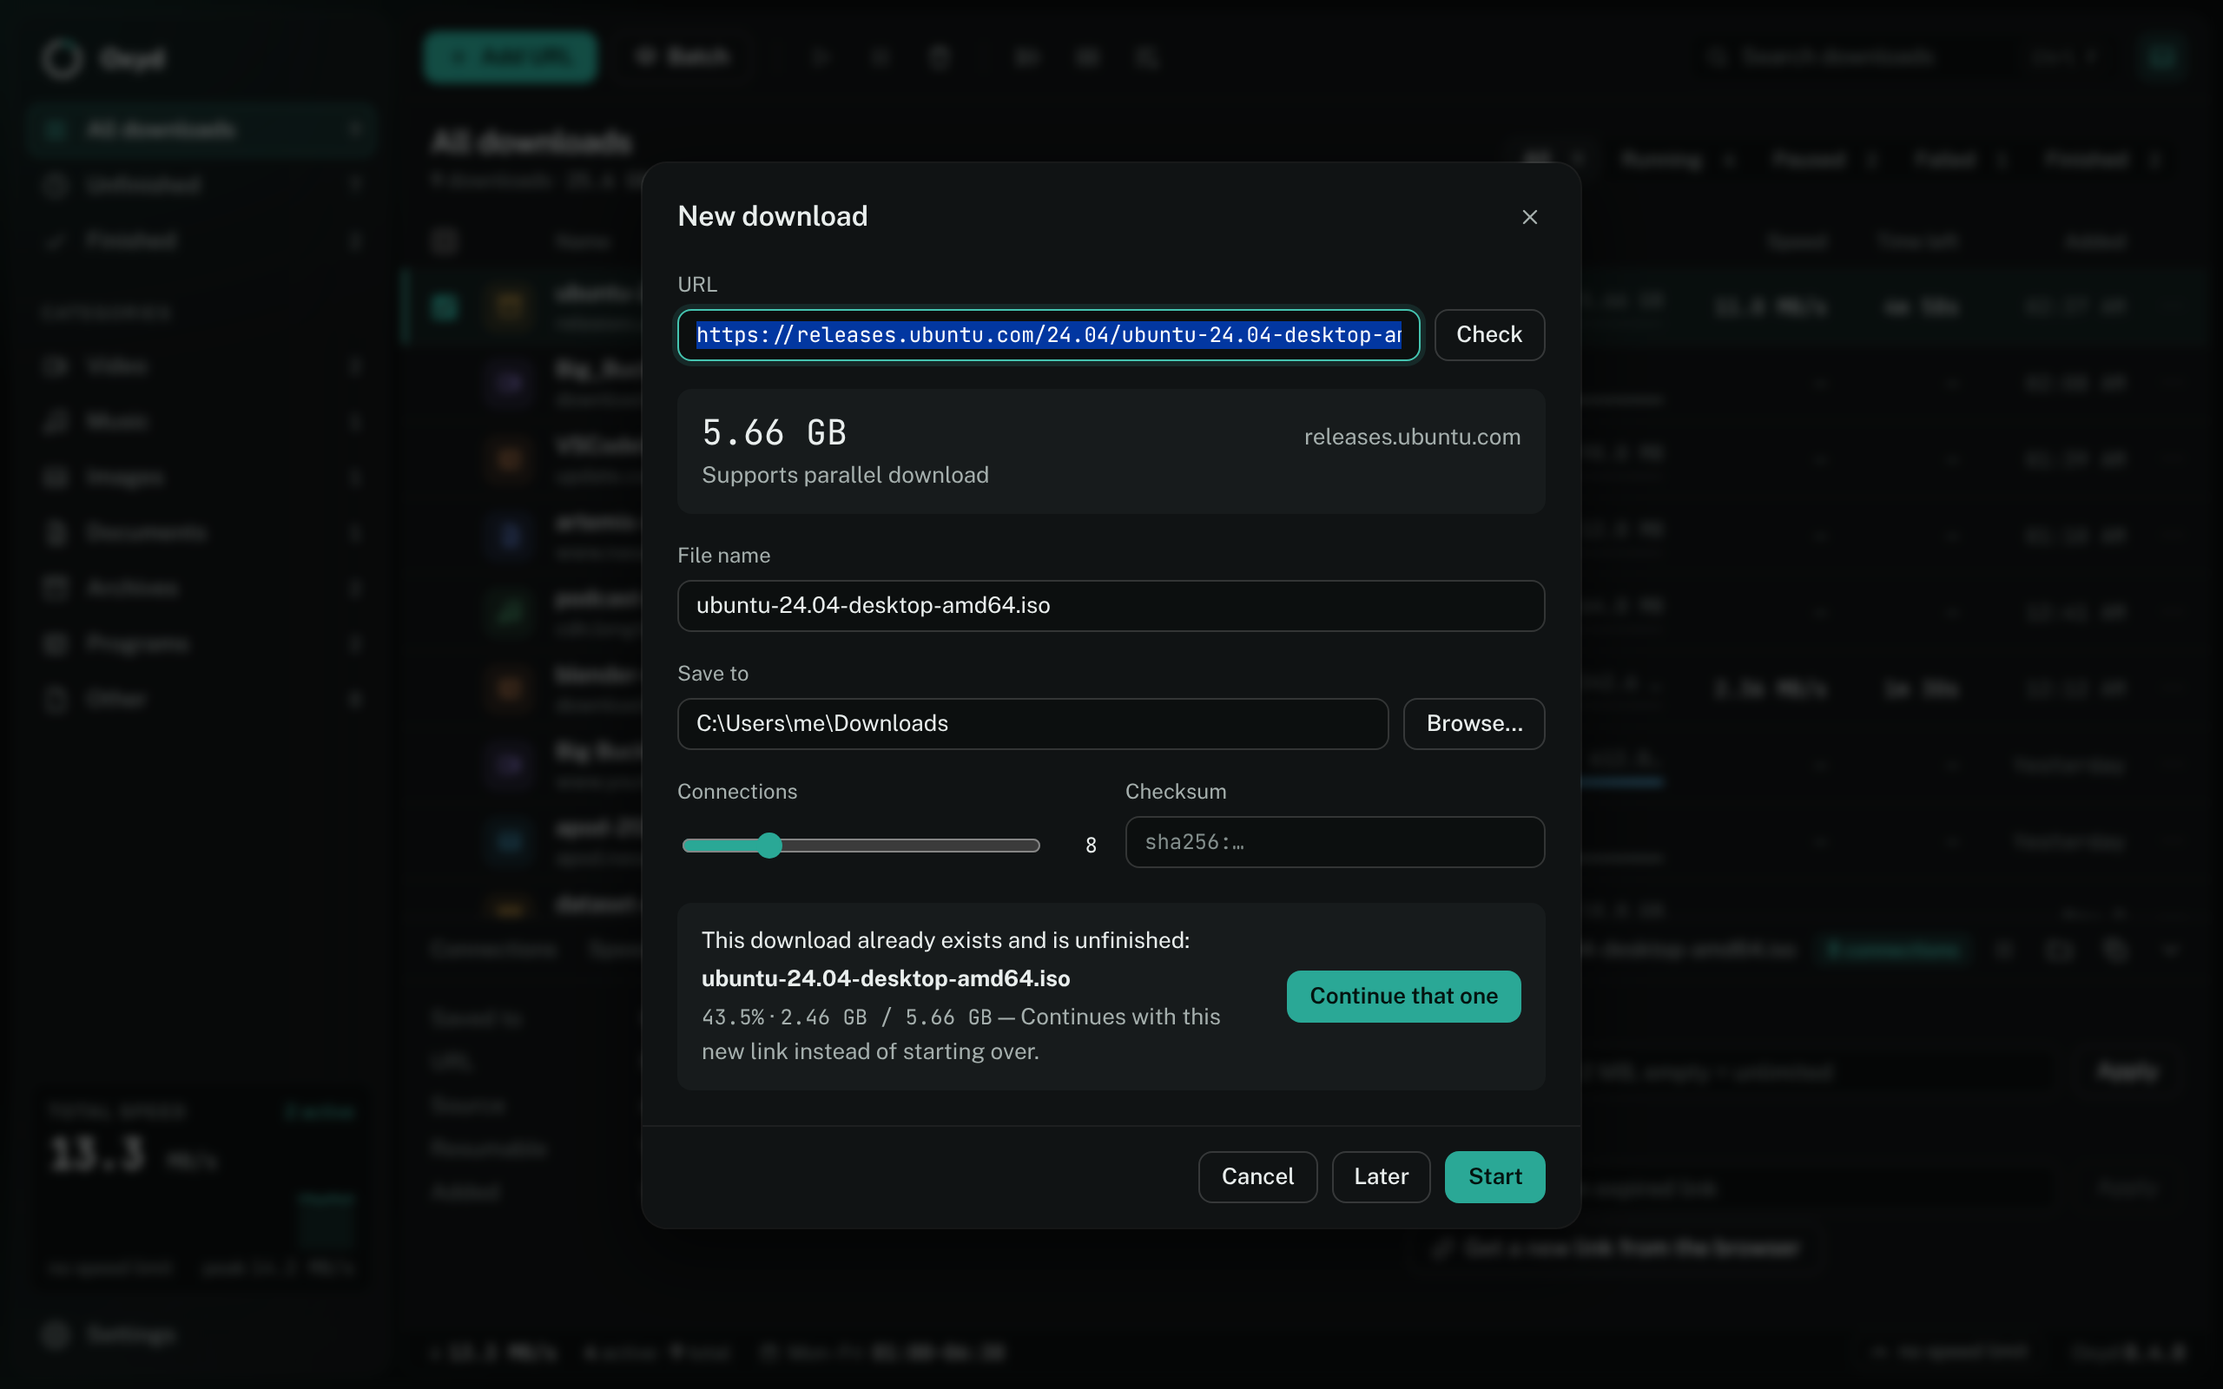
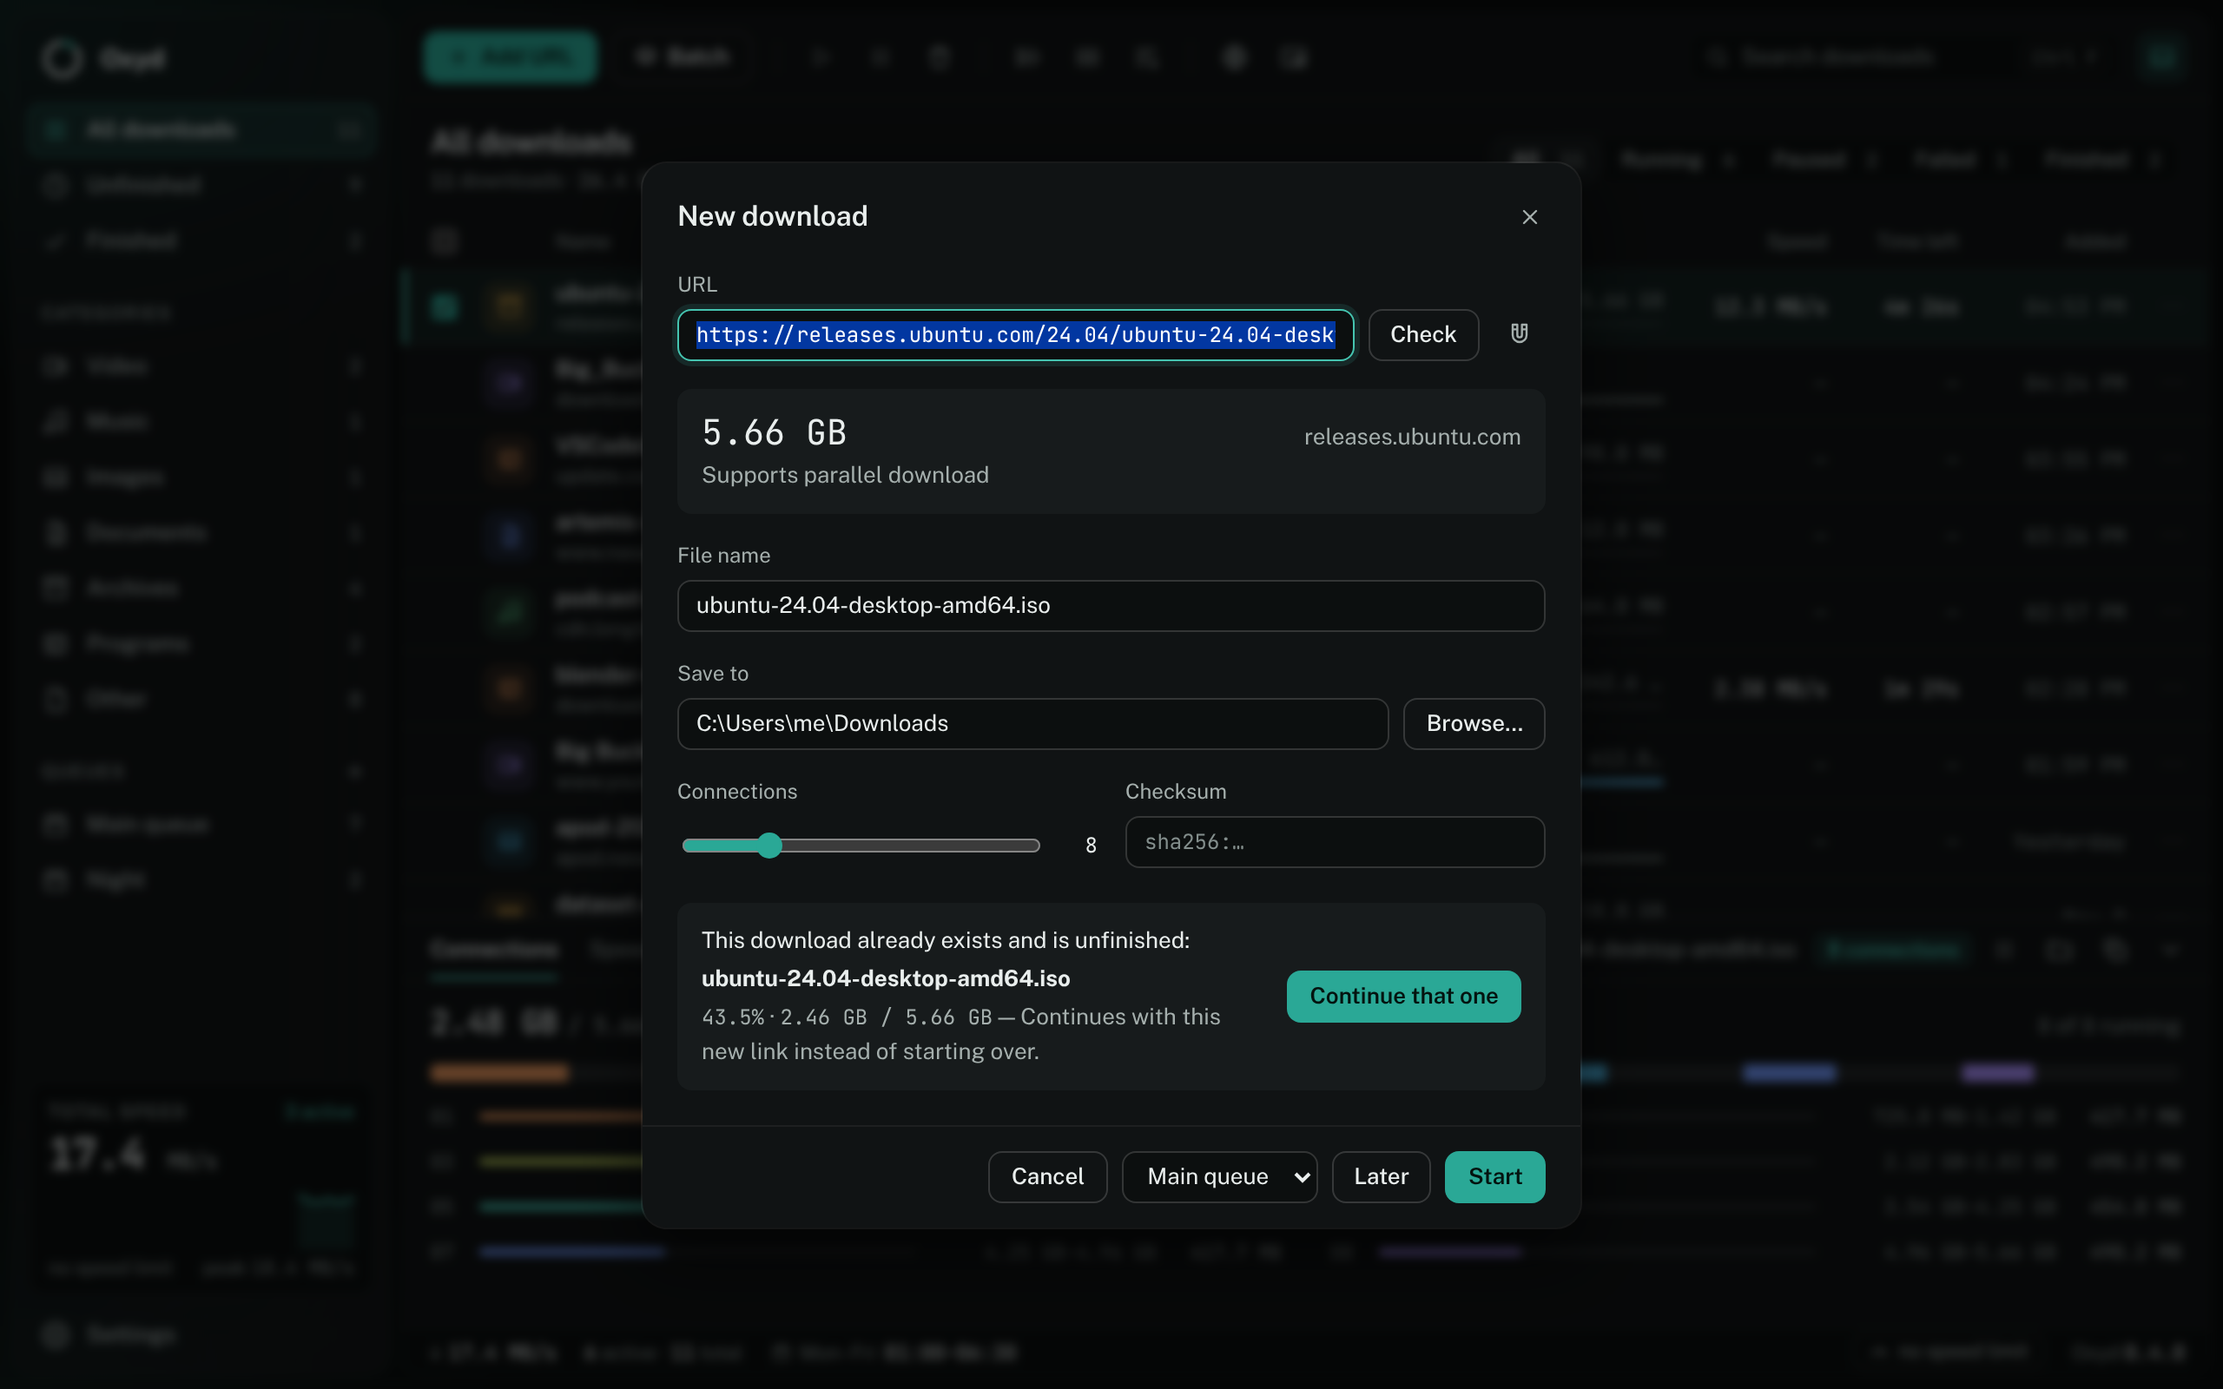
docs: bring the README up to date with queues, torrents, FTP, grabber, tools and windows
The intro, contents, layout, shortcuts, settings table, How it works and the repository
layout still described the app before those features. Every screenshot is taken again
from the current interface, and the new dialogs and windows get their own.

diff --git a/README.md b/README.md
@@ -7,10 +7,11 @@ A fast, lightweight download manager for **Windows and Linux** in the spirit of 
 Download Manager. Oxyd splits every file into segments that download in parallel, survives
 crashes and lost connections, picks up downloads from Chrome, Edge and other Chromium
 browsers, and lets you continue a download from where it stopped even after its link has
-expired.
+expired. Files, videos from web pages, torrents and FTP all land in one list, sorted into
+queues that run on their own schedule.
 
 <p align="center">
-  <img src="docs/images/downloads-dark.png" alt="Oxyd main window, dark theme: download list with the segment map and speed of the selected download" width="900">
+  <img src="docs/images/downloads-dark.png" alt="Oxyd main window, dark theme: sidebar with file types and queues, the download list, and one lane per connection of the selected download" width="900">
 </p>
 
 > The screenshots show sample downloads served by the local test server in this repository.
@@ -43,7 +44,13 @@ expired.
 
 ## Contents
 
-- [Platforms](#platforms) · [Design](#design) · [Everyday use](#everyday-use)
+- [Platforms](#platforms) · [Design](#design)
+- [Everyday use](#everyday-use): [adding](#adding-downloads) · [batch](#many-downloads-at-once) ·
+  [new link](#continuing-downloads-even-with-a-new-link) · [videos](#videos-from-web-pages) ·
+  [queues](#queues) · [torrents and FTP](#torrents-and-ftp) ·
+  [grabber](#grabbing-the-links-of-a-page) · [tools](#tools-for-finished-files) ·
+  [progress and mini windows](#progress-and-mini-windows) ·
+  [limits and schedule](#limits-retries-and-schedule) · [settings](#settings)
 - [Browser extension](#browser-extension) · [How it works](#how-it-works) · [Install](#install)
 - [Build from source](#build-from-source) · [Repository layout](#repository-layout)
 - [Documentation](#documentation) · [License](#license)
@@ -83,20 +90,22 @@ light window. The feature analysis and the mockups it was built from are in
 **Layout**
 
 - **Sidebar**: the Oxyd mark (a ring of eight segments, one lit), *All downloads*,
-  *Unfinished* and *Finished*, the seven file types with their counts, and the total speed
-  with its last minute as a sparkline. On narrow windows it shrinks to icons.
+  *Unfinished* and *Finished*, the seven file types with their counts, the queues with what
+  still waits in each, and the total speed with its last minute as a sparkline. On narrow
+  windows it shrinks to icons.
 - **Toolbar**: *Add URL*, *Batch*, resume / pause / remove for the selected downloads, resume
-  all, pause all, clear finished, the search box and the switch for the bottom pane.
+  all, pause all, clear finished, the link grabber, the mini window, the search box and the
+  switch for the bottom pane.
 - **Title row**: what you are looking at, one line that says what matters now ("2 downloading
   at 14.2 MB/s · Ubuntu finishes in 2m 49s · 1 failed, retrying in 0:24") and the status
   filter (*All*, *Running*, *Paused*, *Failed*, *Finished*) with counts.
-- **Download list**: file type, name and site, size, status, progress, speed, time left and
-  when it was added. Click a column header to sort by it; a third click returns to queue
+- **Download list**: file type, name and site (torrents and FTP say so), size, status,
+  progress, speed, time left and when it was added. Click a column header to sort by it; a third click returns to queue
   order. Select several rows with Ctrl or Shift click, the checkboxes or Ctrl+A and act on
   all of them at once. Rows are 44px, or 32px in *compact* density.
 - **Bottom pane** (Ctrl+I): *Connections* shows the file map and one lane per connection
   with its byte range and what it still has to fetch, each in its own colour from copper to
-  patina; *Speed* shows the last minute with the current, average and peak speed; *Info*
+  patina (a torrent or an FTP download is one lane); *Speed* shows the last minute with the current, average and peak speed; *Info*
   holds the path, the URL, a per-download speed limit and the link refresh controls.
 - **Status bar**: the combined speed, running downloads, the schedule and the speed limit,
   which can be switched on and off right there.
@@ -123,6 +132,7 @@ underneath.
 | Menu key / right click | Context menu |
 | Ctrl+N | New download |
 | Ctrl+B | Batch download |
+| Ctrl+G | Grab the links of a page |
 | Ctrl+V | Download the links on the clipboard (outside a text field) |
 | Ctrl+I | Show or hide the bottom pane |
 | Ctrl+F | Search by name or URL (Esc clears) |
@@ -223,6 +233,10 @@ can run two downloads at 2 MB/s from 23:00 while the main queue stays as it is. 
 queue, the pencil edits it, and *Move to queue* in the right-click menu moves the selected
 downloads. Deleting a queue moves its downloads back to the main queue.
 
+<p align="center">
+  <img src="docs/images/queue-dark.png" alt="A queue with two downloads at once, a speed limit and a schedule" width="800">
+</p>
+
 ### Torrents and FTP
 
 Paste a **magnet link** into *Add URL*, drop it on the window, or open a `.torrent` file with
@@ -245,6 +259,10 @@ follow the pages the start page links to, one or two levels deep, staying on the
 by default, and reads at most 40 pages. The page is sent as the referer when the files are
 downloaded. Pages are read as plain HTML, so links a script adds after loading are not seen.
 
+<p align="center">
+  <img src="docs/images/grabber-dark.png" alt="The link grabber listing the files of a page by type" width="800">
+</p>
+
 ### Tools for finished files
 
 Right-click one or more finished downloads and choose **Tools**:
@@ -255,6 +273,10 @@ Right-click one or more finished downloads and choose **Tools**:
 
 A job shows its progress at the bottom right and can be cancelled; the original file is never
 replaced. The media tools use the ffmpeg Oxyd already manages for videos, one job at a time.
+
+<p align="center">
+  <img src="docs/images/tools-dark.png" alt="The tools dialog: convert, make smaller, ZIP" width="800">
+</p>
 
 ### Progress and mini windows
 
@@ -268,10 +290,15 @@ The **mini window** (toolbar) stays on top of other windows: total speed, the do
 finishes next, and a place to drop links, which start at once. Each of these windows is a web
 view of its own and costs memory while it is open.
 
-### Queue, limits and schedule
+| Progress window | Mini window |
+|---|---|
+| <img src="docs/images/progress-window-dark.png" alt="Progress window of one download" width="460"> | <img src="docs/images/mini-window-dark.png" alt="Mini window with the total speed and the download that finishes next" width="300"> |
 
-- Run up to 3 downloads at once by default (1 to 20); the rest wait in the queue, and you can
-  move items up or down from the context menu.
+### Limits, retries and schedule
+
+- The main queue runs up to 3 downloads at once by default (1 to 20); the rest wait, and you
+  can move items up or down from the context menu. Other [queues](#queues) have their own
+  number.
 - Limit the speed globally or per download (for example `500 KB` or `2 MB`); the limit can be
   changed while a download runs.
 - Failed downloads that were only unlucky (network down, server busy) retry by themselves,
@@ -279,9 +306,11 @@ view of its own and costs memory while it is open.
   missing files do not retry.
 - The speed limit chip in the status bar switches the global limit on and off and offers
   common values, without opening Settings.
-- *Settings → Schedule* starts the queue and pauses everything at chosen times, on the days
-  of the week you pick (none picked means every day), and can put the computer to sleep or
-  shut it down when the queue finishes.
+- *Settings → Schedule* starts the main queue and pauses it at chosen times, on the days of
+  the week you pick (none picked means every day); every other queue has the same schedule
+  of its own in its dialog. The day only decides the start: a stop after midnight still ends
+  what the evening before began. When every queue has finished, Oxyd can put the computer to
+  sleep or shut it down.
 - A finished download shows *Open* and *Open folder* at the bottom right and plays a short
   tone, which *Settings → General* can turn off.
 
@@ -293,11 +322,12 @@ view of its own and costs memory while it is open.
 
 | Tab | What you can set |
 |---|---|
-| General | Language, theme, start automatically when you sign in, notifications |
+| General | Language, theme, start automatically when you sign in, notifications, a progress window for new downloads, the tone when a download finishes |
+| Appearance | Accent colour, comfortable or compact rows, the glass effect |
 | Downloads | Default folder, a sub folder per category, connections per download (1–32), simultaneous downloads, global speed limit, what to do with duplicate names |
 | Browser & integration | Show the confirmation dialog for browser downloads, watch the clipboard for file links |
 | Videos from the web | Which yt-dlp, ffmpeg and deno are used, update yt-dlp now or every day, your own yt-dlp or ffmpeg |
-| Schedule | Start and stop times, action when the queue finishes |
+| Schedule | Start and stop times and days of the main queue, action when the queues finish |
 | Network | HTTP, HTTPS or SOCKS5 proxy |
 
 ## Browser extension
@@ -367,6 +397,29 @@ starts the app first if needed.
 5. **Be polite.** Failed requests retry with exponential backoff and `Retry-After`; when a
    server answers 429 or 503, connections are given up immediately and added back slowly.
 
+**Queues.** Each queue counts its own running downloads and starts the next one that waits
+in it, so a full main queue never holds back another queue. A queue with a speed limit shares
+one token bucket between its downloads, on top of the global limit and the per-download one.
+
+**FTP.** A small client of Oxyd's own: it logs in (anonymous unless the link carries a name),
+asks for the size, opens a passive data connection to the address of the control connection
+(servers behind NAT announce addresses that cannot be reached) and writes into the same
+`.oxydpart` file, checkpointed like an HTTP download, so pause and crash recovery are the
+same; resuming sends `REST` with the bytes already on disk.
+
+**Torrents.** [librqbit](https://github.com/ikatson/rqbit) does the transfer; Oxyd maps its
+state onto a row of the list. The session starts with the first torrent and finds peers
+through DHT, trackers and the local network. Data already in the target folder is hashed and
+kept. A torrent that is complete leaves the session, which is why Oxyd does not seed. A
+torrent with no peer and no byte for three minutes is reported as stalled and retried later
+like a lost connection.
+
+**Grabber and tools.** The grabber fetches pages with the app's own HTTP client (same proxy)
+and scans the HTML for `href`, `src`, `srcset`, `data-src` and `poster`; it reads at most 2 MB
+of a page, 40 pages and 2000 links. Convert and *make smaller* run ffmpeg with its progress
+output; *make smaller* computes the video bitrate from the length of the file so the result
+fits the size, with 96 kbit/s audio.
+
 **Videos.** The extension sends the page address and that site's cookies; the app reads the
 page with yt-dlp (`-J`, cookies through a temporary file only your user can read) and offers a
 short list of qualities. The chosen formats' sizes and Range support are checked; plain files
@@ -376,7 +429,8 @@ video and ffmpeg merges both (`-c copy`); if that fails or is stopped, the part 
 back together so no progress is lost. Other streams go to yt-dlp with its own `.part` files.
 
 **Privacy.** Cookies and authorisation headers are kept only while a download needs them and
-deleted when it completes. On Windows they are encrypted with DPAPI for your user account; on
+deleted when it completes. They are sent to the site they were given for and to no other:
+when a link redirects to another site, the requests to that site carry none of them. On Windows they are encrypted with DPAPI for your user account; on
 Linux the database lives in a folder only your user can open. Links in the log files are
 reduced to their host and path, and there is no telemetry.
 
@@ -482,7 +536,8 @@ Requirements: Rust stable and Node.js 22 or newer, plus
   On Fedora: `sudo dnf install webkit2gtk4.1-devel libappindicator-gtk3-devel librsvg2-devel patchelf`.
 
 ```bash
-cargo test --workspace                 # engine, protocol and bridge tests
+cargo test --workspace                 # engine, protocol, bridge and app tests
+(cd app && npm install && npm test)    # unit tests of the interface
 cd app && npm install && npx tauri dev # desktop app with hot reload
 cd extension && npm install && npm run build   # extension into extension/build
 ```
@@ -517,22 +572,32 @@ On Linux a development build registers its own `oxyd-bridge` for your user when 
 | `OXYD_LOG=debug` | Raises the log level |
 | `OXYD_PIPE` | Another pipe name (Windows) or socket path (Linux) between bridge and app; the default socket is `$XDG_RUNTIME_DIR/oxyd.sock` |
 | `OXYD_APP` | The app the bridge starts when it is not running |
+| `OXYD_FFMPEG`, `OXYD_YTDLP`, `OXYD_DENO` | Use this copy of the tool |
+
+Some tests skip themselves when the machine lacks what they need and say so: the media tool
+tests without `ffmpeg` on the PATH, the torrent test between two sessions without IPv6
+sockets.
 
 ## Repository layout
 
 | Folder | Contents |
 |---|---|
-| `crates/oxyd-core` | Download engine: probe, segments, workers, limiter, SQLite, queue and manager; `media/` for videos from web pages (yt-dlp, ffmpeg, tool downloads) |
+| `crates/oxyd-core` | Download engine: probe, segments, workers, limiter, SQLite, queues and manager; `media/` for videos from web pages and the convert / shrink / ZIP tools (yt-dlp, ffmpeg, tool downloads); `ftp.rs`, `grabber.rs`, and `torrent.rs` behind the `torrent` feature, which only the desktop app turns on |
 | `crates/oxyd-cli` | `oxyd-cli`, a command line front end for the engine |
 | `crates/oxyd-protocol` | Message types, framing, the secured named pipe (Windows) and Unix socket (Linux) |
 | `crates/oxyd-bridge` | `oxyd-bridge`, the native messaging host |
-| `app/` | Tauri app (`src-tauri/`) and the Svelte interface (`src/`) |
+| `app/` | Tauri app (`src-tauri/`) and the Svelte interface (`src/`): one bundle for the main window, the mini window and the progress windows |
 | `extension/` | Chromium extension (TypeScript, esbuild) |
 | `installer/`, `scripts/` | NSIS hooks, WiX fragment for the MSI, Windows and Linux package builds, dev registration, kill/resume test |
 | `test-server/` | Local HTTP server used by the tests and benchmarks |
 
 ## Documentation
 
+- [CLAUDE.md](CLAUDE.md): what Oxyd is for, the rules its design follows, how to check a
+  change, and what is known to be unfinished or untested.
+- [docs/design/redesign-board.html](docs/design/redesign-board.html): the feature analysis
+  against Prism and the mockups the interface was built from (an HTML fragment; open it in a
+  browser).
 - [docs/IMPROVEMENTS.md](docs/IMPROVEMENTS.md): measured speed and memory improvements,
   reliability and security fixes, and what is still open.
 - [docs/PRD.md](docs/PRD.md) and [docs/PLAN.md](docs/PLAN.md): the product requirements and
